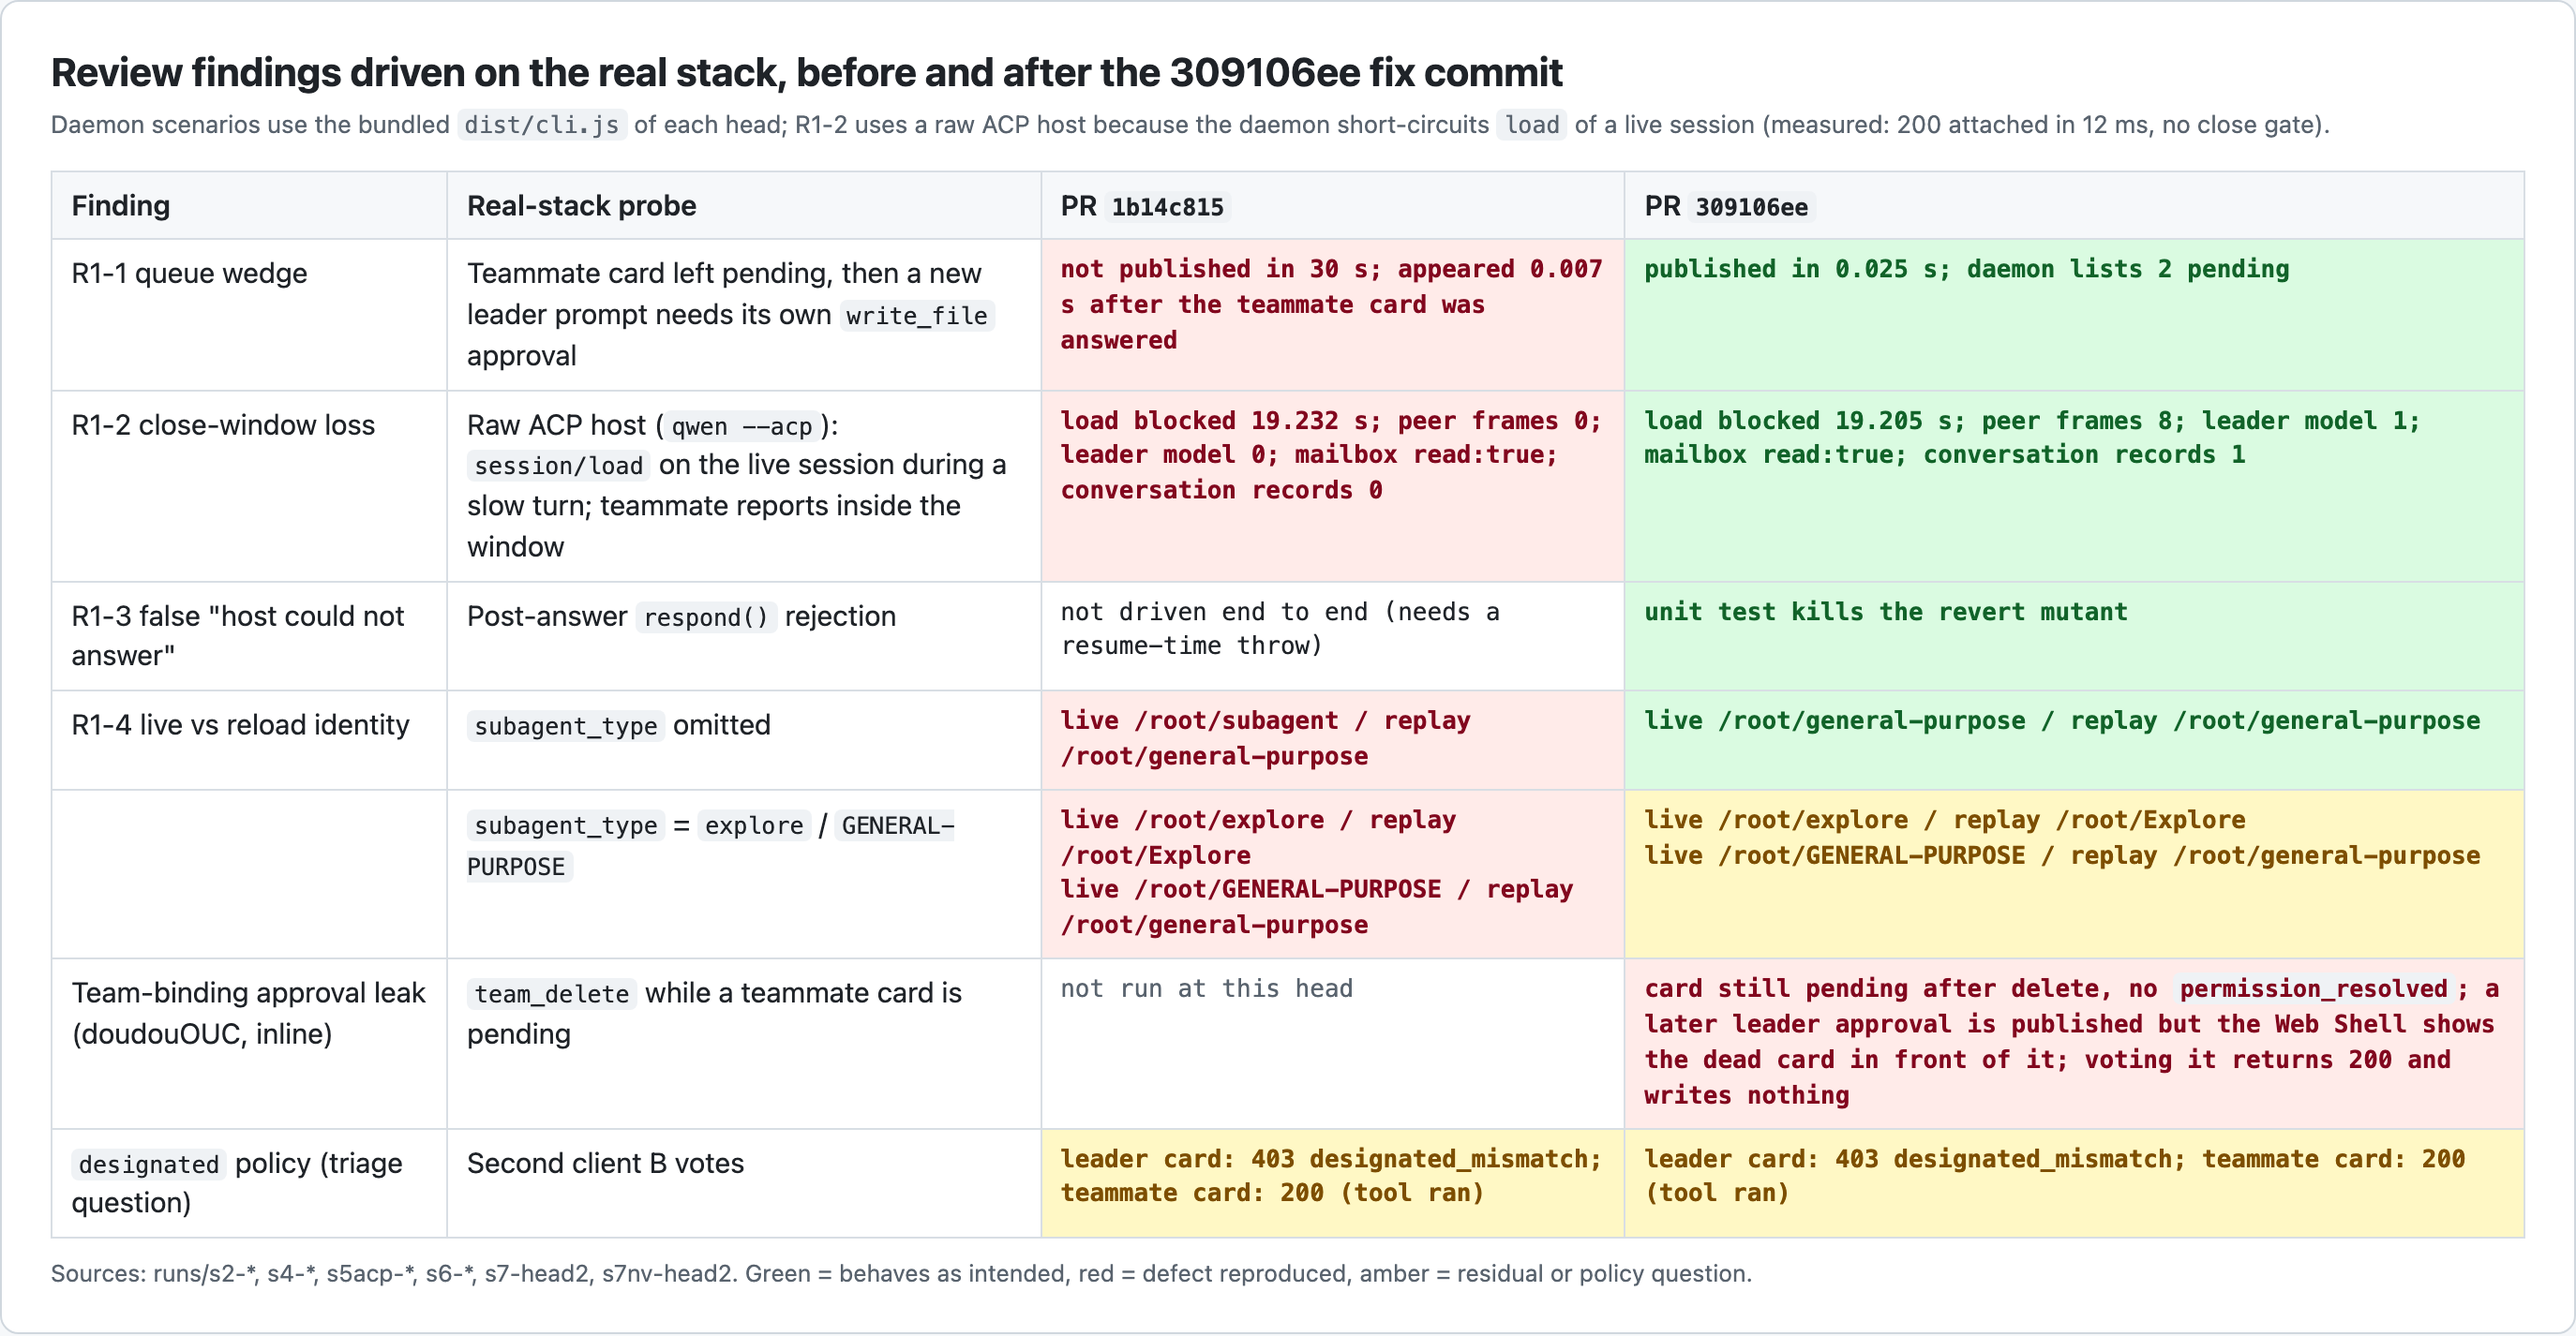
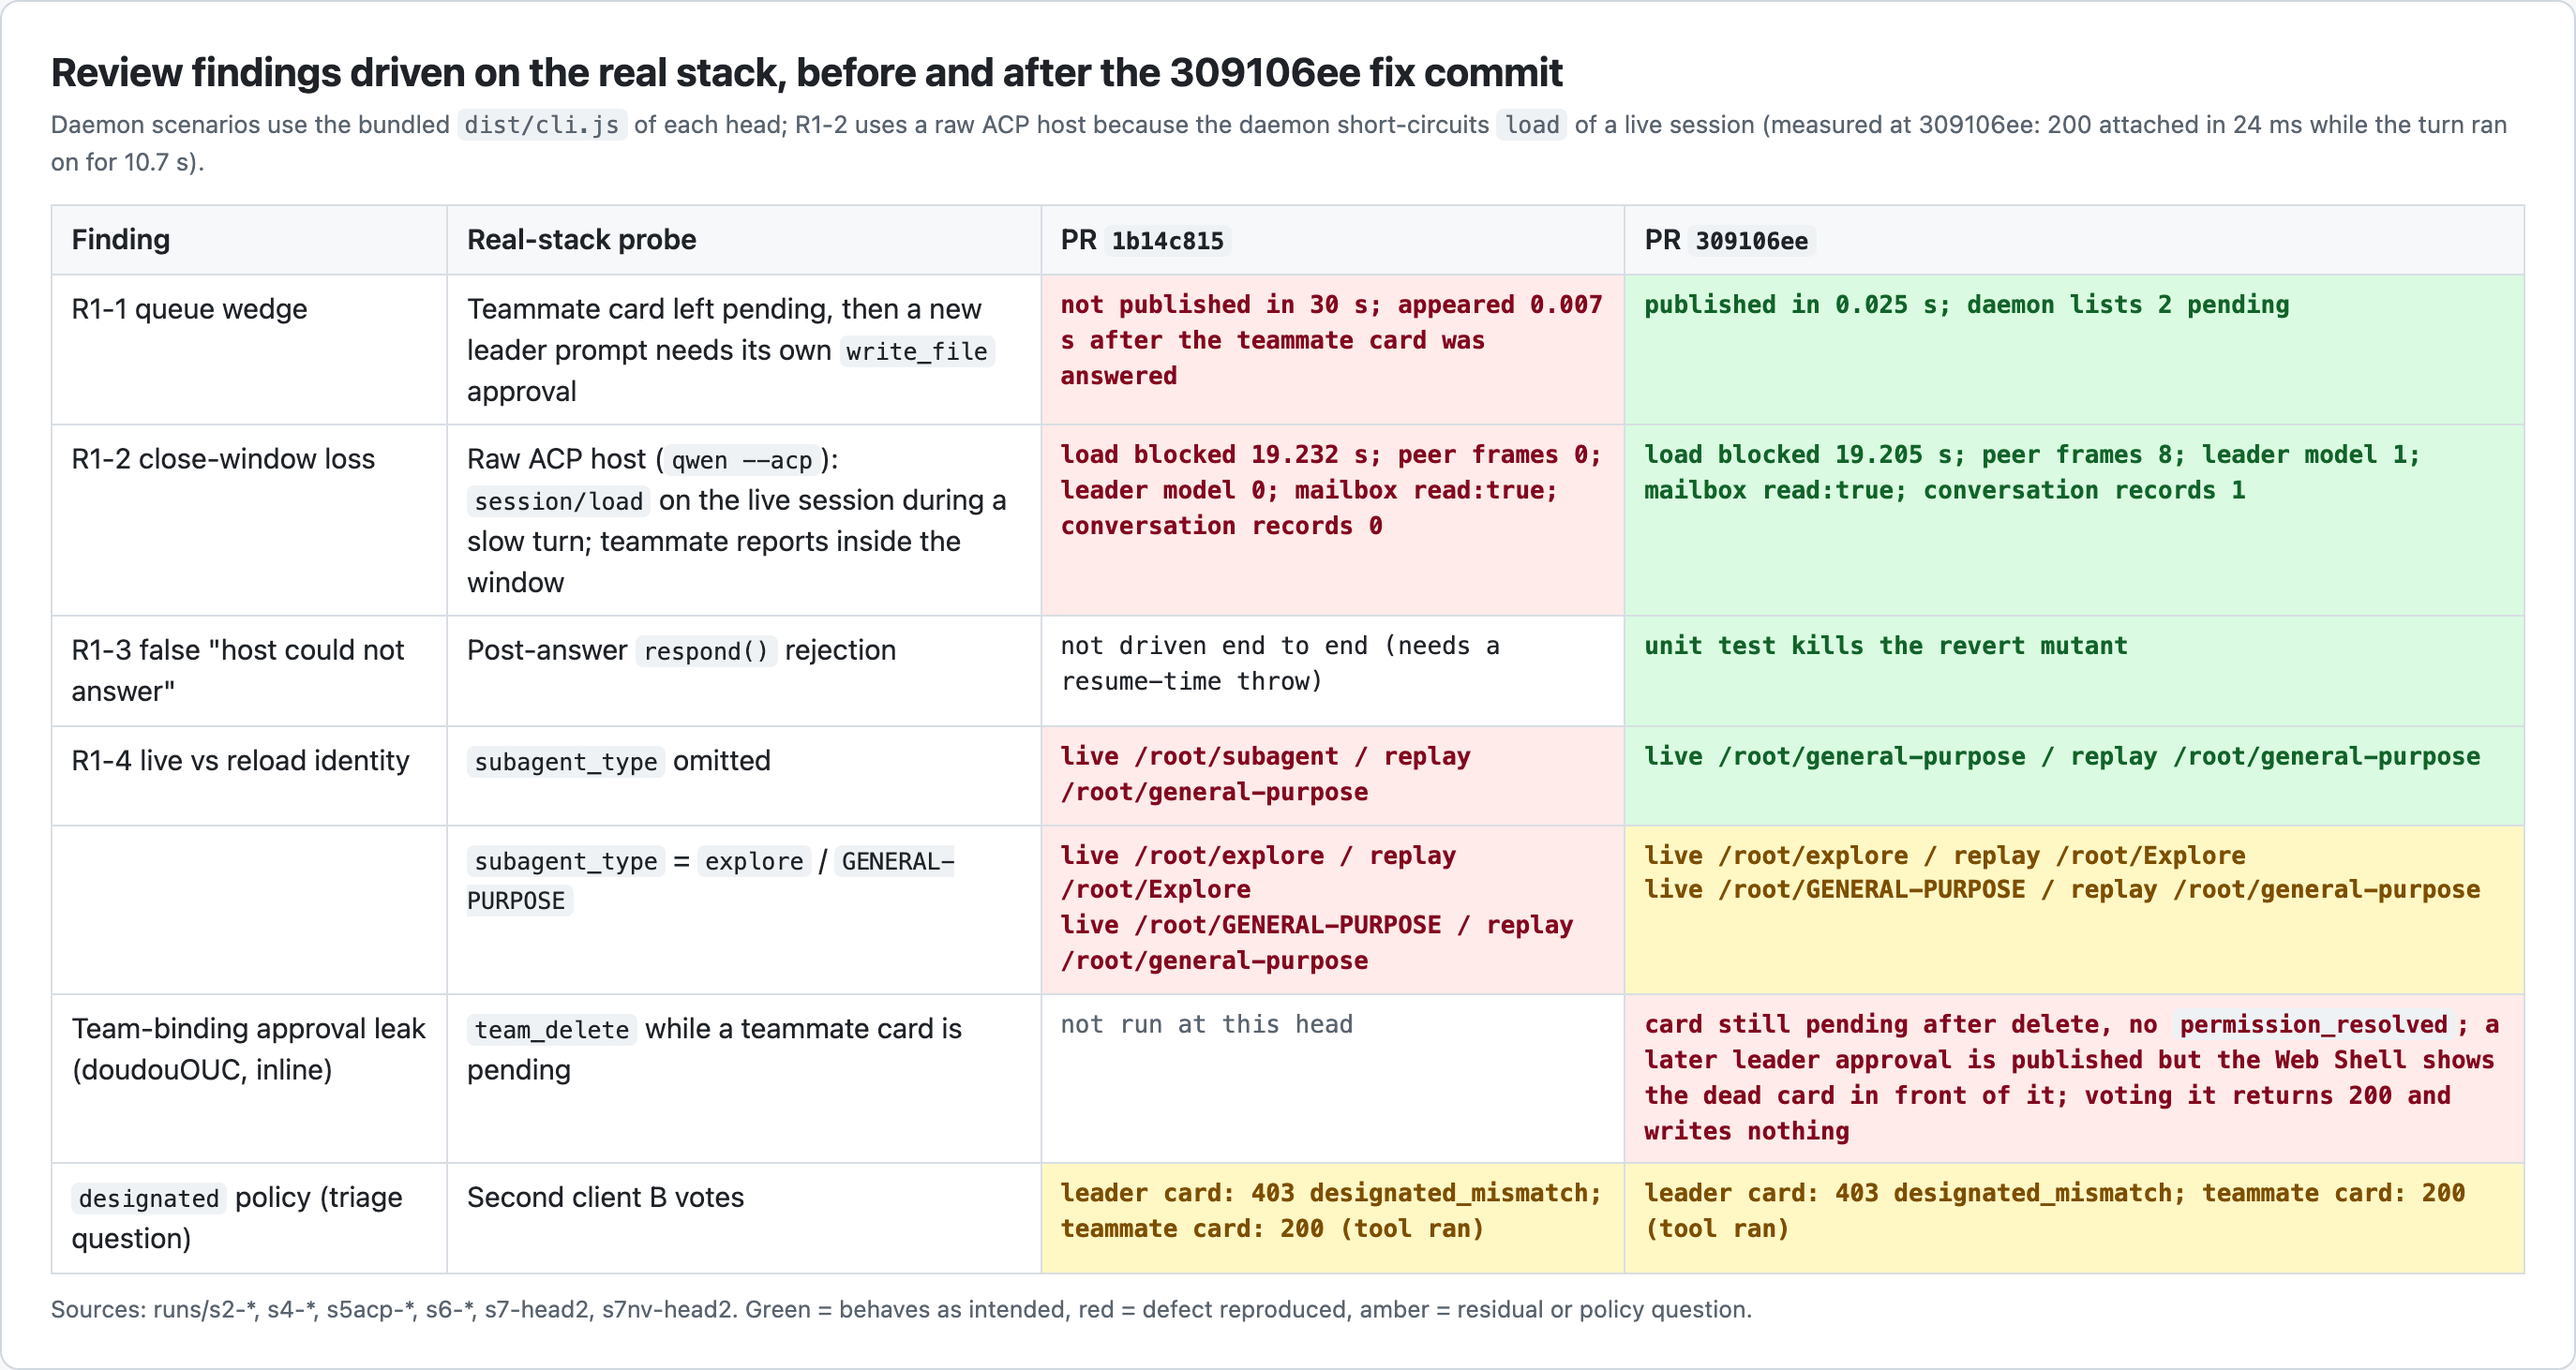
PR 13902 evidence: daemon live-load probe, card 2 re-render

diff --git a/pr13902/rig/cards.py b/pr13902/rig/cards.py
@@ -55,6 +55,8 @@ def s4txt(rows, k):
 s5 = {k: R(f'{k}/s5-acp-{m}-result.json')['v'] for k, m in (('s5acp-load-head', 'load'), ('s5acp-loadfix-head2', 'loadfix'), ('s5acp-control-head', 'control'))}
 s6, s6b = R('s6-head/s6-result.json')['v'], R('s6-head2/s6-result.json')['v']
 s7, s7nv = R('s7-head2/s7-result.json')['v'], R('s7nv-head2/s7-result.json')['v']
+s8 = R('s8-head2/s8-result.json')['v']
+S8TXT = '%s attached in %d ms while the turn ran on for %.1f s' % (s8['load']['status'], int(s8['load']['tookS']*1000), s8['turnEndedAtS']-s8['loadSentAtS'])
 def s5txt(v): return f"load blocked {v['load']['tookS']} s; peer frames {v['peerReportUpdates']}; leader model {v['leaderModelGotReport']}; mailbox read:{str(v['inboxRows'][0]['read']).lower()}; conversation records {sum(1 for t in v['transcriptReportRecords'] if 'ui_telemetry' not in t)}"
 mut = json.load(open(os.path.join(ROOT, 'gates/mutants-head2/mutants.json'))) if os.path.exists(os.path.join(ROOT, 'gates/mutants-head2/mutants.json')) else []
 m3 = next((m for m in mut if m['mutant'].startswith('M3')), None)
@@ -85,7 +87,7 @@ for f, probe, a, ca, b, cb in rows2:
 body += "</table>"
 open(os.path.join(OUT, '02-findings-real-stack.html'), 'w').write(page(
   'Review findings driven on the real stack, before and after the 309106ee fix commit',
-  'Daemon scenarios use the bundled <code>dist/cli.js</code> of each head; R1-2 uses a raw ACP host because the daemon short-circuits <code>load</code> of a live session (measured: 200 attached in 12 ms, no close gate).',
+  f'Daemon scenarios use the bundled <code>dist/cli.js</code> of each head; R1-2 uses a raw ACP host because the daemon short-circuits <code>load</code> of a live session (measured at 309106ee: {S8TXT}).',
   body, 'Sources: runs/s2-*, s4-*, s5acp-*, s6-*, s7-head2, s7nv-head2. Green = behaves as intended, red = defect reproduced, amber = residual or policy question.'))
 
 # ── Card 3: gates + mutants ──
